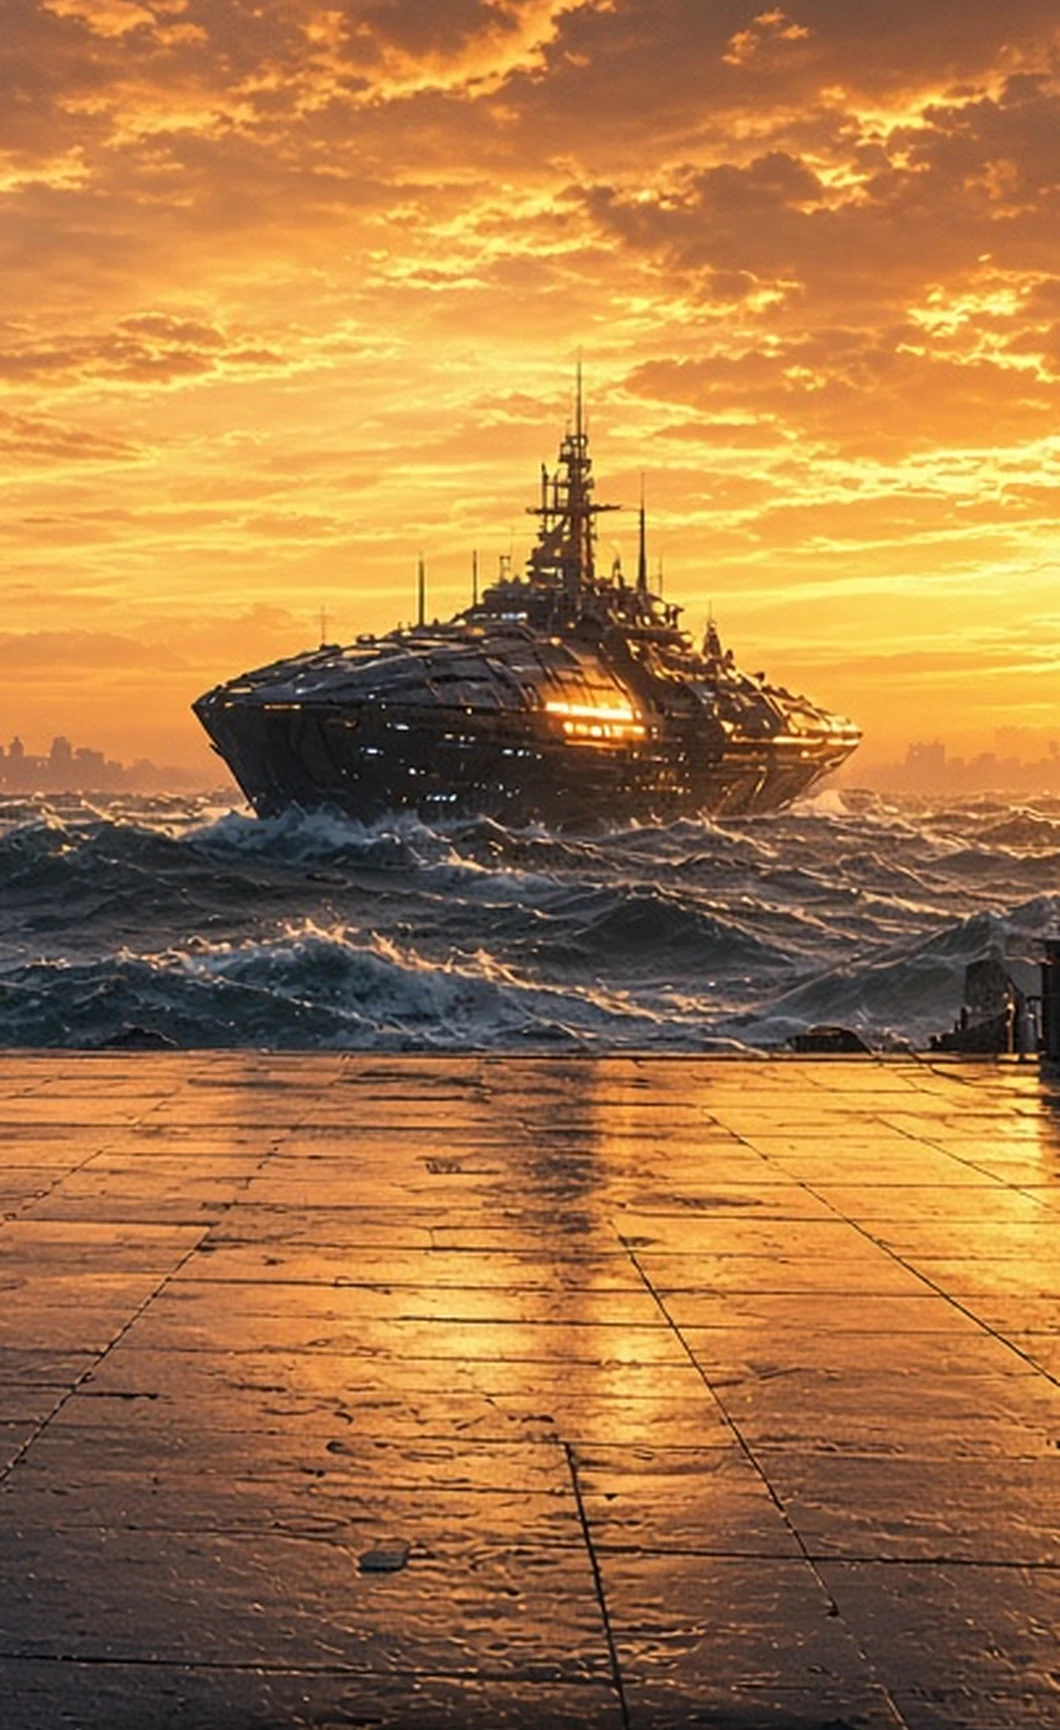
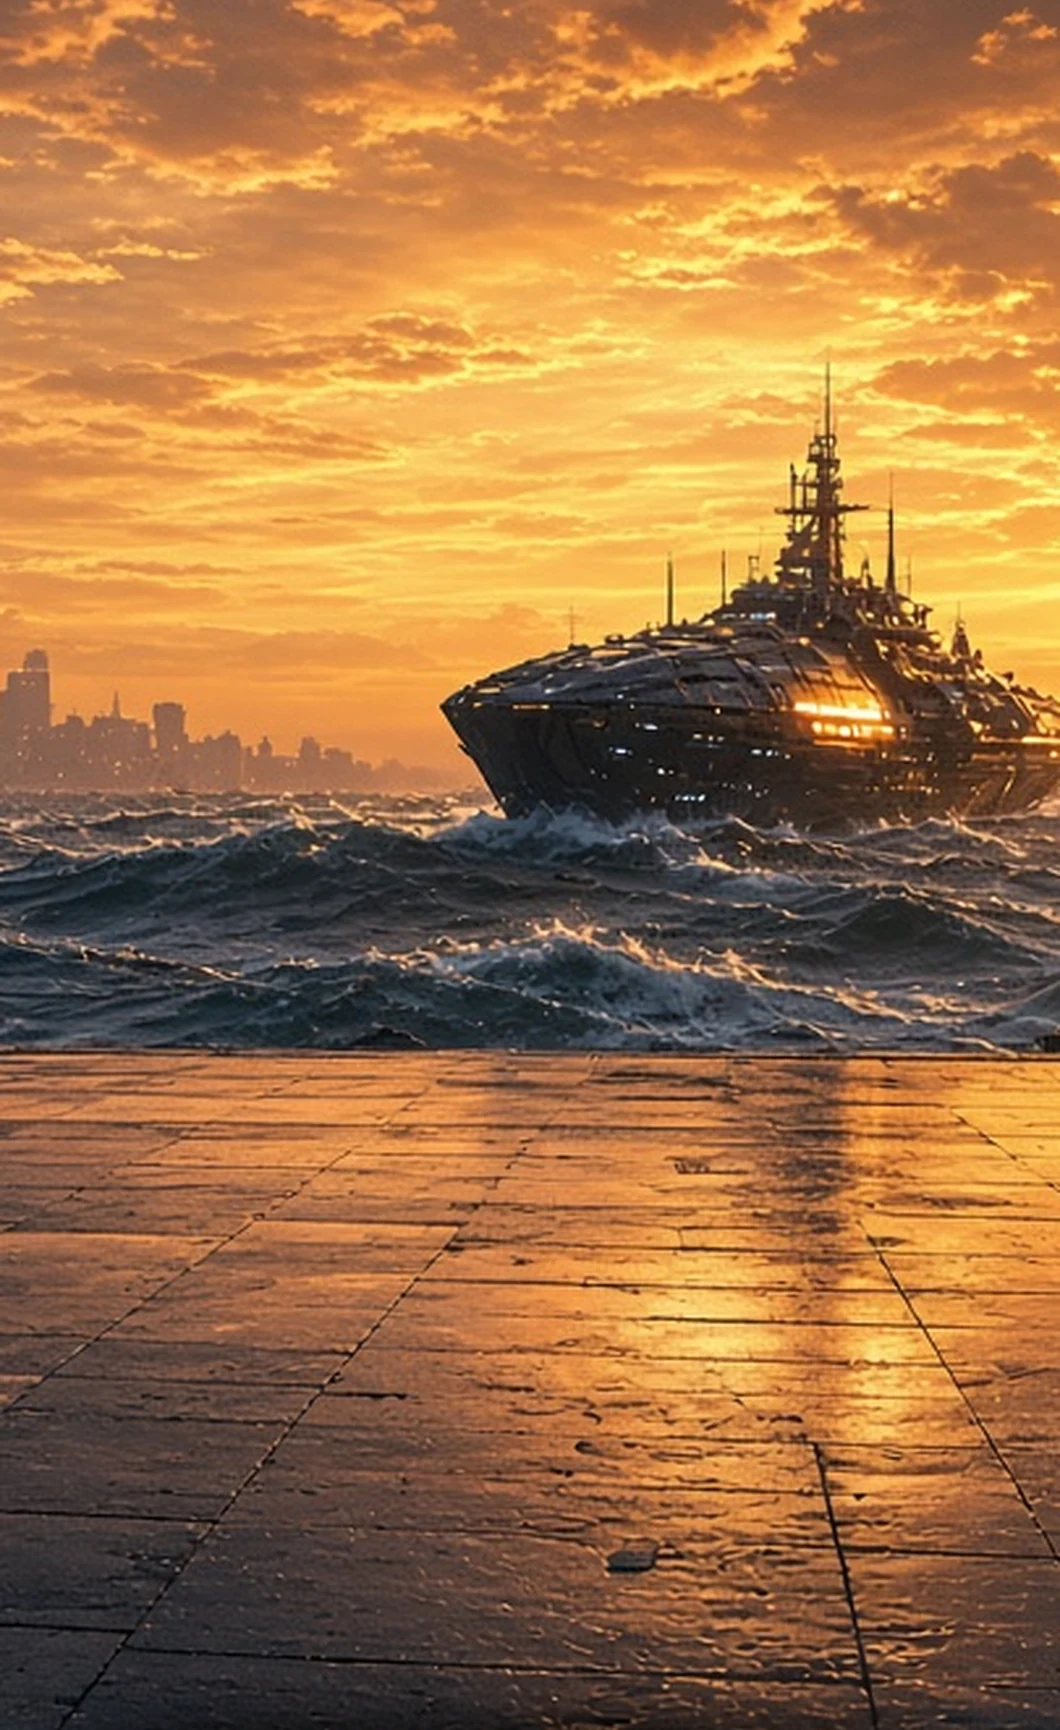
v2: publish real layers for cards 65 66

diff --git a/v2/PROMPTS.md b/v2/PROMPTS.md
@@ -438,7 +438,14 @@ Nota (12/10, tarde): look.py gera figure.png a partir de figure_key.png (neon se
 
 ## 65 Dois de Ouros
 - figure (FIG_FIT=1080,2342,1000 FIG_KEEPALL=1 KEY_STRICT=1: anchored near the bottom, coins and infinity ribbon kept): joyful juggler woman in a purple/orange outfit and top hat dancing on a paving patch, two gold pentacle coins linked by a glowing infinity ribbon (asset 34912aa1).
-- bg (crop x 655-1060 of 1280, right ship): golden-hour harbor quay, ships on rough waves (asset c90c2573), plus a soft contact shadow under the paving patch.
+- bg (crop x 560-965 of 1280: ship at the right, clearly visible beside the juggler): golden-hour harbor quay, ships on rough waves (asset c90c2573), plus a soft contact shadow under the paving patch.
 - mid: vazio (aura do fg gerada pelo fin.py).
 - fg (bottom): asset 6ba7549a mirrored, recolored two-tone amber / violet.
 - finish: FIG_DEGREEN=1 DEFRINGE=4 EDGE_CHOKE=5 RECOLOR_GREEN=1 RECOLOR_TO=amber (grass tufts and gold-edge spill -> amber) FG_BOOST=0.5 FG_BODY=0.85 FIN_HEADBOX=1060,1342,240.
+
+## 66 Três de Ouros
+- figure (FIG_FIT=1080,2995,995 FIG_KEEPALL=1 KEY_STRICT=1: ~92% width, round stone platform on the floor at the bottom; green through the arch opening keyed to background): grey-haired architect holding a blue holographic blueprint, a young woman artisan carving, and a robed monk around a carved stone arch with three glowing gold pentacles on a round stone platform (asset 6cc74fd1).
+- bg (default center crop): cathedral under construction with scaffolding and golden light rays (asset 847c3e15), plus a soft contact shadow under the platform.
+- mid: vazio (aura do fg gerada pelo fin.py).
+- fg (bottom): asset 6ba7549a flipped vertically, recolored two-tone amber / violet.
+- finish: FIG_DEGREEN=1 DEFRINGE=4 EDGE_CHOKE=5 RECOLOR_GREEN=1 RECOLOR_TO=amber FG_BOOST=0.5 FG_BODY=0.85 FIN_HEADBOX=565,2345,200+1050,2435,190+1663,2322,200 (all three faces clear).
